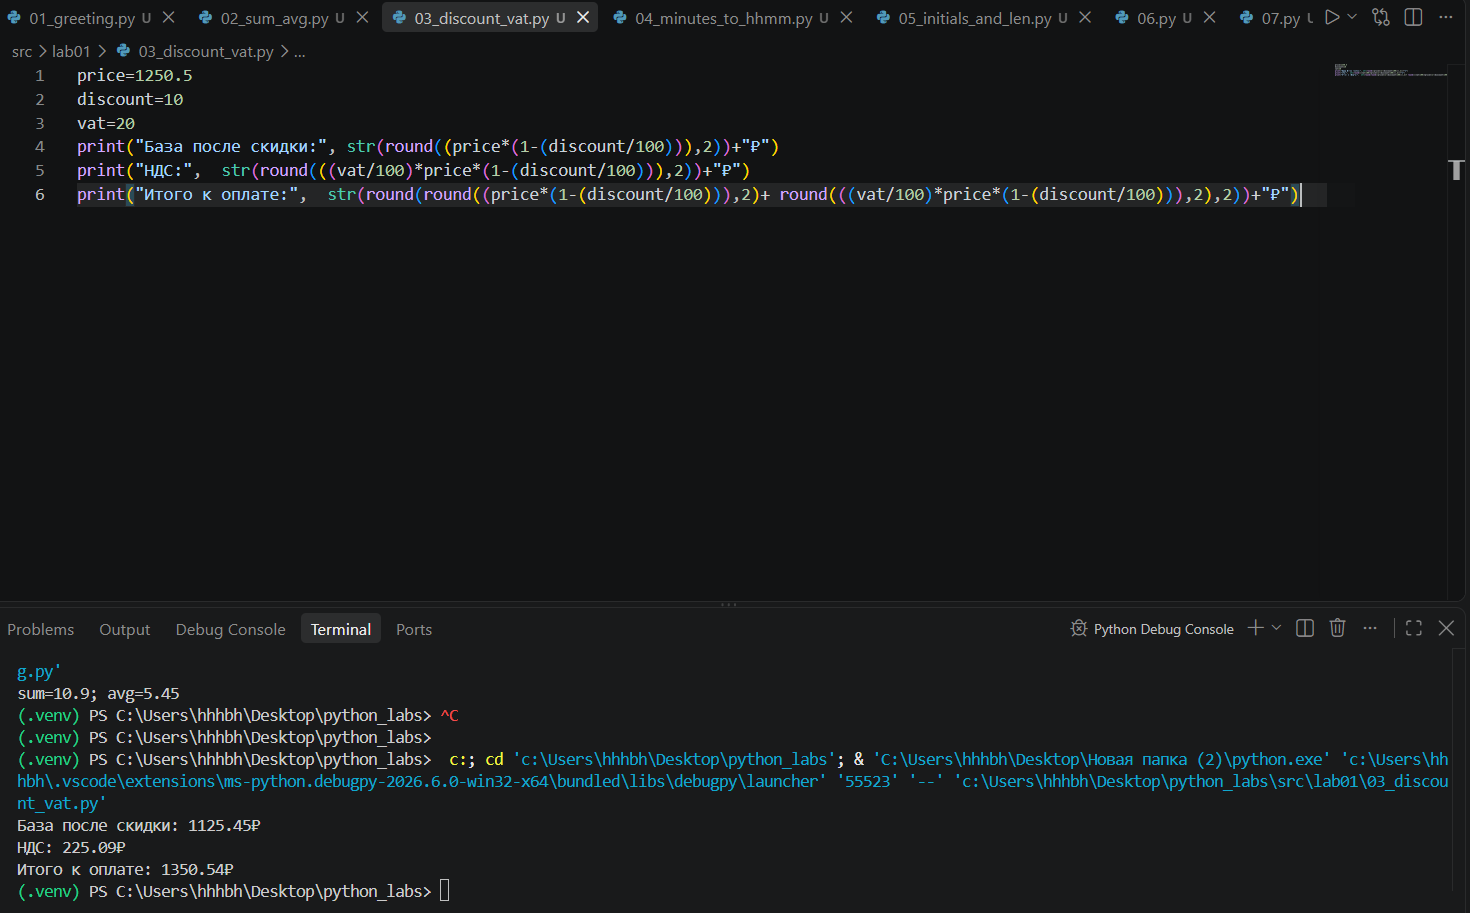
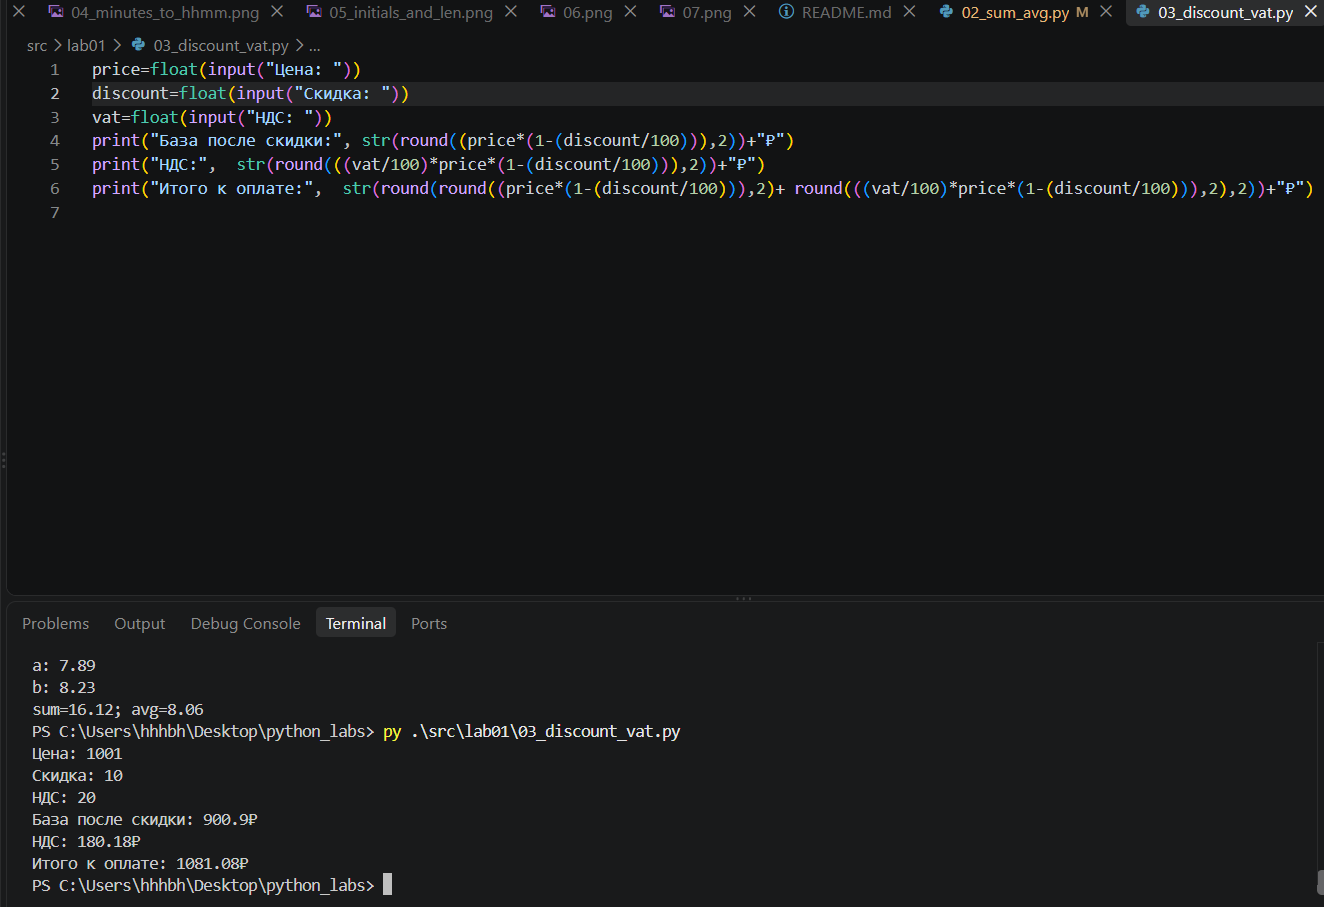
.

diff --git a/src/lab01/05_initials_and_len.py b/src/lab01/05_initials_and_len.py
@@ -3,6 +3,5 @@ initials=""
 for i in range(len(fio)-1):
     if fio[i] in "ЁЙЦУКЕНГШЩЗХЪЖЭДЛОРПАВЫФЯЧСМИТЬБЮ":
         initials+=fio[i]
-print("ФИО:", fio)
 print("Инициалы:",initials + ".")
 print("Длина (символов):",len(fio)-fio.count(" ")+2)

diff --git a/src/lab01/02_sum_avg.py b/src/lab01/02_sum_avg.py
@@ -1,5 +1,3 @@
-a=float(input("Число 1: "))
-b=float(input("Число 1: "))
-print("a:",a)
-print("b:",b)
+a=float(input("a: "))
+b=float(input("b: "))
 print("sum="+str(int((100*(a+b)))/100)+";","avg="+str(int((a+b)*50)/100))

diff --git a/src/lab01/01_greeting.py b/src/lab01/01_greeting.py
@@ -1,5 +1,3 @@
 name= input("Имя: "   )
 age = int(input("Возраст: "   ))
-print("Имя:",name)
-print("Возраст:",age)
 print("Привет, "+ str(name)+ "! Через год тебе будет "+str((age+1)))

diff --git a/src/lab01/04_minutes_to_hhmm.py b/src/lab01/04_minutes_to_hhmm.py
@@ -1,3 +1,2 @@
 m=int(input("Минуты: "))
-print("Минуты:",m)
 print(str(m//60) + ":" + str(m-int(m/60)*60))
